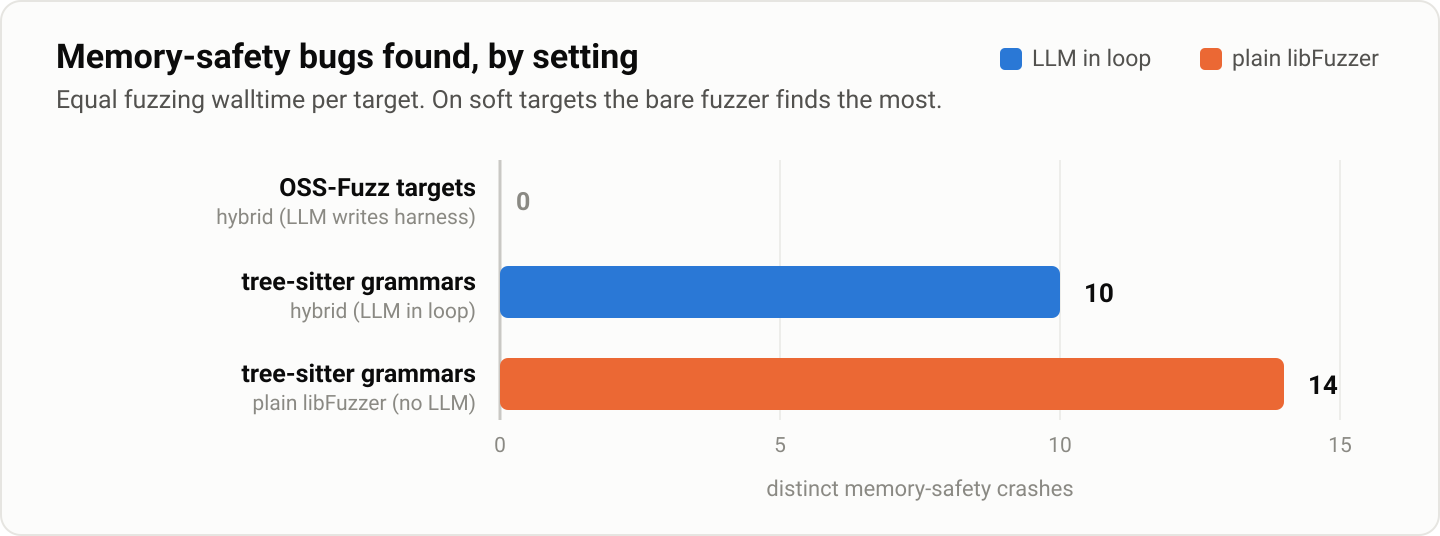
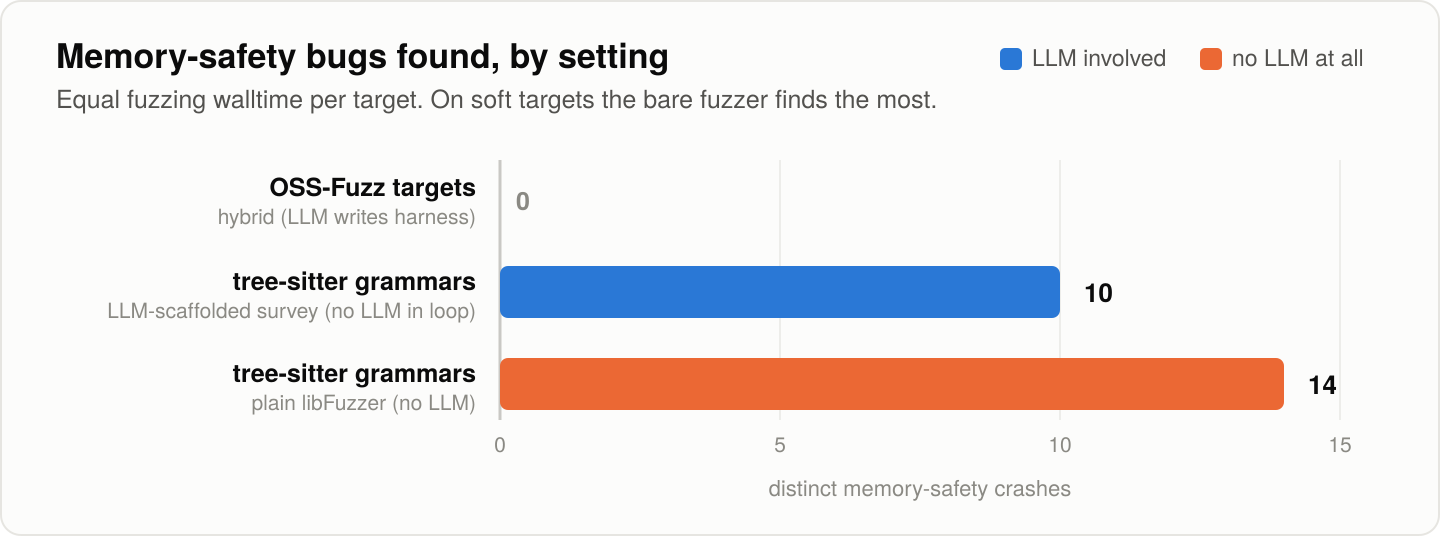
docs(blog): report the Round 3 ablation and revise the negative result
The post's own "confession" section admits the treatment/control comparison in
Round 2 was not an ablation: both arms were conventional fuzzers, because the
118-grammar survey had no LLM in its discovery loop. We have now run the
experiment it stood in for, and the headline claim needs revising.

## What the new run was

A real LLM-in-the-loop discovery arm (model writes the harness, fuzzes a 300s
window, reads coverage/crash feedback, rewrites, x5) against plain libFuzzer with
a fixed template harness on a matched window schedule and shared corpus. Five
grammars, three reps, 150 windows, 12.5 fuzzing-hours.

## What it found

6 memory-safety bugs for the LLM arm vs 5 for the control, 1 LLM-only. The
replicated effect is reliability rather than capability: on nushell-nu, gren and
foam the LLM arm found the bug in 3/3 reps and the control in 1/3 — bugs the bare
fuzzer demonstrably CAN find, but inconsistently at equal budget. The single
capability instance is sql's scan_dollar_string_tag leak: LLM 3/3, control 0/3
across ~68k executions, and reaching it needs valid $tag$...$tag$ input.

## Prose changes

- TL;DR: "nothing we ran supports the idea that an LLM in the fuzzing loop finds
  more bugs" was true when written and is now false. Rewritten as mostly-but-not-
  entirely negative, with the size of the effect stated up front so the revision
  cannot be read as a reversal.
- "at no point did an LLM contribute to finding a bug" -> scoped to "up to this
[…]

diff --git a/comms/blog/figures.py b/comms/blog/figures.py
@@ -1,0 +1,197 @@
+#!/usr/bin/env python3
+"""Regenerate blog figures from sweep output.
+
+Usage (from repo root, needs the sweep JSONL present):
+
+    uv run --project scaffold python comms/blog/figures.py
+
+Emits SVG into ``comms/blog/assets/`` and rasterizes to PNG at 2x via
+ImageMagick (which delegates to librsvg here). The committed PNGs are 2x the
+viewBox, i.e. ``-density 192``.
+
+Only fig4 is generated from data. fig1-fig3 describe the earlier 118-grammar
+survey and the ARVO patching sweep, whose raw outputs are not on this machine
+(``scaffold/results/*`` is gitignored); those SVGs remain hand-maintained.
+
+Style constants below are copied from the existing hand-authored figures so a
+generated figure sits beside them without looking foreign.
+"""
+
+from __future__ import annotations
+
+import json
+import subprocess
+import sys
+from pathlib import Path
+
+ROOT = Path(__file__).resolve().parents[2]
+ASSETS = Path(__file__).resolve().parent / "assets"
+LLM_DIR = ROOT / "scaffold" / "results" / "treesitter-llm"
+CTL_DIR = ROOT / "scaffold" / "results" / "treesitter-baseline"
+
+GRAMMARS = ["nushell-nu", "gren", "foam", "typst", "sql"]
+REPS = ["rep1", "rep2", "rep3"]
+
+# --- house style ----------------------------------------------------------- #
+FONT = (
+    "-apple-system, BlinkMacSystemFont, 'Segoe UI', Roboto, "
+    "Helvetica, Arial, sans-serif"
+)
+BG, BORDER = "#fcfcfb", "#e6e5e1"
+INK, MUTED, FAINT = "#0b0b0b", "#52514e", "#8a8983"
+GRID, AXIS = "#ededea", "#c9c8c4"
+BLUE, ORANGE = "#2a78d6", "#eb6834"
+
+
+def _reps_with_bug() -> dict[str, dict[str, int]]:
+    """{grammar: {arm: n_reps_where_a_memory_safety_bug_was_found}}."""
+    sys.path.insert(0, str(ROOT / "scaffold" / "src"))
+    from parser_security_eval.treesitter.baseline_compare import load_sweep
+
+    out: dict[str, dict[str, int]] = {}
+    for g in GRAMMARS:
+        out[g] = {}
+        for arm, base in (("llm", LLM_DIR), ("control", CTL_DIR)):
+            hits = 0
+            for rep in REPS:
+                gc = load_sweep(base / rep).get(g)
+                if gc and gc.mem_hashes():
+                    hits += 1
+            out[g][arm] = hits
+    return out
+
+
+def _llm_only_bugs() -> dict[str, int]:
+    """Distinct memory-safety hashes an arm found that the other never did."""
+    sys.path.insert(0, str(ROOT / "scaffold" / "src"))
+    from parser_security_eval.treesitter.baseline_compare import load_sweep
+
+    llm, ctl = load_sweep(LLM_DIR), load_sweep(CTL_DIR)
+    out = {}
+    for g in GRAMMARS:
+        a = llm[g].mem_hashes() if g in llm else set()
+        b = ctl[g].mem_hashes() if g in ctl else set()
+        if a - b:
+            out[g] = len(a - b)
+    return out
+
+
+def fig4() -> str:
+    reps = _reps_with_bug()
+    only = _llm_only_bugs()
+
+    x0, unit = 250, 120  # x = x0 + reps*unit ; 3 reps -> 360px
+    top, pitch, bar_h = 84, 40, 11
+    bottom = top + pitch * len(GRAMMARS) - (pitch - 2 * bar_h - 4)
+
+    p: list[str] = []
+    p.append(
+        f'<svg xmlns="http://www.w3.org/2000/svg" viewBox="0 0 720 356" '
+        f'font-family="{FONT}">'
+    )
+    p.append(
+        f'  <rect x="0.5" y="0.5" width="719" height="355" rx="10" '
+        f'fill="{BG}" stroke="{BORDER}"/>'
+    )
+    p.append(
+        f'  <text x="28" y="34" font-size="17" font-weight="700" fill="{INK}">'
+        f"The ablation, actually run</text>"
+    )
+    p.append(
+        f'  <text x="28" y="54" font-size="12.5" fill="{MUTED}">Reps (of 3) in '
+        f"which each arm found the grammar&#39;s memory-safety bug. Equal "
+        f"fuzz-seconds.</text>"
+    )
+
+    # legend
+    p.append(f'  <rect x="500" y="24" width="11" height="11" rx="2.5" fill="{BLUE}"/>')
+    p.append(f'  <text x="516" y="33" font-size="11.5" fill="{MUTED}">LLM in loop</text>')
+    p.append(f'  <rect x="600" y="24" width="11" height="11" rx="2.5" fill="{ORANGE}"/>')
+    p.append(
+        f'  <text x="616" y="33" font-size="11.5" fill="{MUTED}">plain libFuzzer</text>'
+    )
+
+    # gridlines + axis labels
+    p.append(f'  <g stroke="{GRID}" stroke-width="1">')
+    for v in range(4):
+        gx = x0 + v * unit
+        p.append(f'    <line x1="{gx}" y1="{top - 8}" x2="{gx}" y2="{bottom}"/>')
+    p.append("  </g>")
+    p.append(f'  <g font-size="10.5" fill="{FAINT}" text-anchor="middle">')
+    for v in range(4):
+        p.append(f'    <text x="{x0 + v * unit}" y="{bottom + 16}">{v}</text>')
+    p.append("  </g>")
+    p.append(
+        f'  <text x="{x0 + 1.5 * unit}" y="{bottom + 38}" font-size="11" '
+        f'fill="{FAINT}" text-anchor="middle">reps in which the bug was found</text>'
+    )
+    p.append(
+        f'  <line x1="{x0}" y1="{top - 8}" x2="{x0}" y2="{bottom}" '
+        f'stroke="{AXIS}" stroke-width="1.5"/>'
+    )
+
+    for i, g in enumerate(GRAMMARS):
+        gy = top + i * pitch
+        p.append(
+            f'  <text x="238" y="{gy + 17}" font-size="12.5" fill="{INK}" '
+            f'text-anchor="end" font-weight="600">{g}</text>'
+        )
+        for j, (arm, colour) in enumerate((("llm", BLUE), ("control", ORANGE))):
+            n = reps[g][arm]
+            by = gy + j * (bar_h + 4)
+            w = n * unit
+            if w:
+                p.append(
+                    f'  <rect x="{x0}" y="{by}" width="{w}" height="{bar_h}" '
+                    f'rx="3" fill="{colour}"/>'
+                )
+            p.append(
+                f'  <text x="{x0 + w + 8}" y="{by + 9.5}" font-size="11.5" '
+                f'font-weight="700" fill="{INK if w else FAINT}">{n}</text>'
+            )
+    # Bugs unique to one arm do not fit as row annotations at this width, and
+    # they are a different quantity from the bar (bugs, not reps), so they get
+    # their own footnote rather than sharing the axis.
+    note_y = bottom + 62
+    for g, n in sorted(only.items()):
+        p.append(
+            f'  <rect x="28" y="{note_y - 9}" width="9" height="9" rx="2" '
+            f'fill="{BLUE}"/>'
+        )
+        p.append(
+            f'  <text x="43" y="{note_y}" font-size="11" fill="{MUTED}">'
+            f"<tspan font-weight=\"600\" fill=\"{INK}\">{g}</tspan>: "
+            f"{n} further memory-safety bug found by the LLM arm in 3/3 reps "
+            f"and never by the control</text>"
+        )
+        note_y += 16
+
+    p.append("</svg>")
+    return "\n".join(p) + "\n"
+
+
+def main() -> None:
+    if not LLM_DIR.exists() or not CTL_DIR.exists():
+        sys.exit(f"sweep output missing: need {LLM_DIR} and {CTL_DIR}")
+    svg_path = ASSETS / "fig4-ablation.svg"
+    svg_path.write_text(fig4(), encoding="utf-8")
+    print(f"wrote {svg_path}")
+    rasterize(svg_path)
+
+
+def rasterize(svg_path: Path) -> None:
+    """SVG -> 2x PNG, matching the committed figures' resolution."""
+    png = svg_path.with_suffix(".png")
+    subprocess.run(
+        ["magick", "-density", "192", "-background", "none", str(svg_path), str(png)],
+        check=True,
+    )
+    print(f"wrote {png}")
+
+
+if __name__ == "__main__":
+    main()
+
+
+def _load_records(path: Path) -> list[dict]:  # pragma: no cover - helper
+    return [json.loads(x) for x in path.read_text().splitlines() if x.strip()]

diff --git a/comms/blog/main.md b/comms/blog/main.md
@@ -1,6 +1,6 @@
 # Unclear that neurosymbolic fuzzing (fuzzers and LLMs uplifting each other) works very well
 
-**TL;DR.** We fuzzed 118 real-world [tree-sitter](https://tree-sitter.github.io/tree-sitter/) grammars, found memory-safety bugs in 9 of them (10 distinct crashes, all in hand-written `scanner.c`) plus parse hangs and OOMs in a dozen more, disclosed to maintainers, and are landing fixes upstream — LLM-drafted, crash-replay-verified, [first one merged](https://github.com/fwcd/tree-sitter-kotlin/pull/279). That's the contribution. The finding is a negative result on the question we were funded to answer: nothing we ran supports the idea that an LLM in the fuzzing loop finds more bugs. On OSS-Fuzz-hardened parsers our LLM-in-the-loop agent found zero. On tree-sitter, the discovery side never needed an LLM at all — and a plain-[libFuzzer](https://llvm.org/docs/LibFuzzer.html) control found the same class of bugs, and more of them. The LLM earned its keep writing scaffolding and patching crashes, not finding them.
+**TL;DR.** We fuzzed 118 real-world [tree-sitter](https://tree-sitter.github.io/tree-sitter/) grammars, found memory-safety bugs in 9 of them (10 distinct crashes, all in hand-written `scanner.c`) plus parse hangs and OOMs in a dozen more, disclosed to maintainers, and are landing fixes upstream — LLM-drafted, crash-replay-verified, [first one merged](https://github.com/fwcd/tree-sitter-kotlin/pull/279). That's the contribution. On the question we were funded to answer, the result is mostly but no longer entirely negative. On OSS-Fuzz-hardened parsers our LLM-in-the-loop agent found zero bugs. On tree-sitter our 118-grammar survey never had an LLM in the discovery loop at all, and a plain-[libFuzzer](https://llvm.org/docs/LibFuzzer.html) control found the same class of bugs and more of them. We then went back and ran the ablation we had failed to run — a genuine LLM-in-the-loop arm against plain libFuzzer at equal fuzz-seconds, five grammars, three reps each. There the LLM arm did win, narrowly: it found each grammar's known bug in 3 reps of 3 where the bare fuzzer managed 1 of 3, and it found one leak the control never found in three attempts. That is a real effect on a small sample, and it is much weaker than "AI-accelerated fuzzers self-improving at runtime" implies.
 
 Recently, [MaxvH wrote](https://www.lesswrong.com/posts/KKE6bL8LEpb6KuZWA/funding-formal-methods-for-the-cyberpocalypse) that we ought to develop an FM tool of the future:
 
@@ -36,12 +36,34 @@ To measure the LLM's contribution to discovery, we ran a control: plain libFuzze
 
 The confession: we designed this as treatment versus control for LLM discovery uplift, and only during write-up did we work out — by asking each other what the code actually does — that the "treatment" arm had no LLM in its discovery loop either. So this comparison is not an ablation of anything. It's two conventional fuzzing configurations that differ in engine setup, and the crashes unique to each side (4 and 8) look like ordinary run-to-run fuzzing variance, which is exactly what two no-LLM runs should produce. We weren't scientific here, and we're saying so rather than dressing the tally up as a result.
 
-But note what the accident leaves intact: across both rounds, hard targets and soft, **at no point did an LLM contribute to finding a bug.** On hardened parsers the genuine LLM-in-the-loop agent found zero. On soft parsers every bug was found by a conventional fuzzer, and a second conventional fuzzer found the same class of bugs and more. The discovery value came from fuzzing at all, and from pointing the fuzzer at overlooked targets.
+But note what the accident leaves intact: up to this point, across both rounds, hard targets and soft, **no LLM had contributed to finding a bug.** On hardened parsers the genuine LLM-in-the-loop agent found zero. On soft parsers every bug was found by a conventional fuzzer, and a second conventional fuzzer found the same class of bugs and more. The discovery value came from fuzzing at all, and from pointing the fuzzer at overlooked targets.
 
 ![Horizontal bar chart of memory-safety bugs found by setting: OSS-Fuzz targets with the LLM-in-the-loop agent found 0; tree-sitter grammars with the LLM-scaffolded survey found 10; tree-sitter grammars with the plain libFuzzer control found 14.](assets/fig1-discovery-by-setting.png)
+
+## Round 3: running the ablation we owed
+
+Having admitted we hadn't run the experiment, we ran it. The treatment arm this time is a real LLM-in-the-loop discovery agent: it writes the libFuzzer harness, fuzzes a 300-second window, reads back coverage and crash feedback, rewrites the harness, and repeats for five windows. The control is plain libFuzzer with a fixed template harness, given the *same* number of windows of the *same* length against the same corpus — so the only difference is who writes the harness. Five grammars where the survey had already found bugs, three repetitions each: 150 windows and 12.5 hours of fuzzing, which took about 15 hours of wall-clock once the model's harness-writing is counted. That gap is itself a cost the equal-fuzz-seconds framing hides — the LLM arm needed roughly 30% more real time to consume the same fuzzing budget.
+
+Two things had to be fixed before the comparison meant anything, and they are worth naming because both would have produced a confident wrong answer. First, libFuzzer aborts the process on the first crashing input unless you run it in fork mode; our treatment arm didn't, so every "300-second" window was ending after two or three executions with coverage never sampled. The control arm *did* run in fork mode. Any number from that pairing would have measured a libFuzzer flag, not an LLM. Second, our crash-identity hash included line numbers, so one leaking function reached from two of its own call sites counted as two bugs.
+
+With those fixed: **6 memory-safety bugs for the LLM arm, 5 for the control, one found only by the LLM arm.** The headline overlap is 5 of 6, and on a five-grammar sample that difference alone would be unremarkable.
+
+![Grouped bar chart: for each of five grammars, the number of repetitions (out of three) in which each arm found the grammar's memory-safety bug. The LLM arm scores 3 of 3 on all five; plain libFuzzer scores 1 of 3 on nushell-nu, gren and foam, and 3 of 3 on typst and sql. A footnote records one further bug in sql found only by the LLM arm.](assets/fig4-ablation.png)
+
+The replicated effect is **reliability, not capability**. On nushell-nu, gren and foam the LLM arm found the bug in all three reps; the bare fuzzer found it in one of three. These are bugs plain libFuzzer clearly *can* find — it found each of them at least once — but at equal budget it finds them inconsistently. Anyone comparing a single run against a single run here would get a coin flip, which is roughly what our 118-grammar tally in the previous section was measuring.
+
+The one result that looks like genuine capability is a leak in [tree-sitter-sql](https://github.com/DerekStride/tree-sitter-sql): `scan_dollar_string_tag` calls `add_char` and never frees the tag buffer. The LLM arm found it in 3 reps of 3. The control found it in 0 of 3, across roughly 68,000 executions. Reaching it needs a structurally valid `$tag$...$tag$` dollar-quoted string, which is the kind of thing a model that knows SQL writes into its seeds and random mutation of a generic corpus does not stumble into. That is the mechanism the funded hypothesis predicts, and it is the only instance of it we have.
+
+Coverage does not tell a clean story. The LLM arm reached more edges on four of five grammars, but the fixed template beat it on nushell-nu in both usable reps (5,111 vs 4,247 mean edges) — and nushell-nu is one of the grammars where the template found the bug least often. Coverage and bug-finding come apart, which is worth remembering before optimising for either.
+
+We are not going to oversell five grammars. The targets were chosen *because* the earlier survey had already found bugs in them, so this measures re-discovery of known bugs, not discovery of new ones; the sql leak may well be one of the two sql bugs the survey already had. One model, one target class, three reps. What we will say is that this is the first time in the project an LLM in the loop measurably beat the fuzzer without it, and that the margin is a reliability multiplier plus one bug — not a step change.
 
 [^overlap]: "Same bug" is judged by a normalized stack hash — top frames reduced to function + scanner-file:line, with absolute paths, binary load offsets, and tree-sitter runtime line numbers stripped. Our first attempt hashed raw frames and reported a spurious 0/10 overlap: the two sweeps ran under different home directories against different runtime commits, so every hash differed even for provably identical crashes (byte-identical [ASan](https://clang.llvm.org/docs/AddressSanitizer.html) summaries). The 6/10 figure is after that fix.
 
 ## Takeaway
 
-"AI-accelerated fuzzers that self-improve their harnesses at runtime" is a natural idea, and we'd guess versions of it get funded more than once. Our experience: on hardened targets the LLM-in-the-loop agent added nothing, because the fuzzer alone had already sufficed years ago; on soft targets we found real bugs without ever needing an LLM in the loop. The niche where LLM *discovery* uplift has to live — targets too hard for vanilla fuzzing but tractable with LLM-guided harnesses — is one we looked for on hard targets and never reached, and never needed on soft ones. We can't rule out that a better agent elicits it; on our evidence, the money is better spent buying CPU for the fuzzer and pointing it at the parsers nobody bothered to fuzz. Where the LLM does earn its keep is everything around the fuzzer: writing the scaffolding, triaging the crashes, and drafting the fixes we're now landing upstream — a different and more defensible claim than the one we set out to test.
+"AI-accelerated fuzzers that self-improve their harnesses at runtime" is a natural idea, and we'd guess versions of it get funded more than once. Our experience: on hardened targets the LLM-in-the-loop agent added nothing, because the fuzzer alone had already sufficed years ago; on soft targets we found real bugs without ever needing an LLM in the loop, and then, when we finally ran the controlled version, the LLM arm won by a modest margin.
+
+The niche where LLM *discovery* uplift has to live — targets too hard for vanilla fuzzing but tractable with LLM-guided harnesses — turns out to exist, and to be narrow. We saw exactly one bug in it. Mostly what the LLM bought was consistency: finding in three runs of three what the bare fuzzer found in one of three. That is worth something if you fuzz a target once and move on, and worth much less if you were going to run the fuzzer three times anyway, which is cheaper than three agent runs. On our evidence the money still mostly goes to CPU for the fuzzer and to pointing it at parsers nobody bothered to fuzz — but "mostly" is doing more work in that sentence than it was before we ran the ablation.
+
+The clearest lesson is methodological, and it is the one we'd press on anyone else funding this. We spent a round comparing two configurations that we believed differed by an LLM and did not. When we built the real comparison, two implementation details — a missing libFuzzer flag on one arm, and line numbers in a crash hash — were each independently sufficient to produce a confident wrong answer in *either* direction. The effect being measured here is small enough that the measurement apparatus has to be more trustworthy than the effect, and ours initially wasn't. Where the LLM most clearly earns its keep remains everything around the fuzzer: writing the scaffolding, triaging the crashes, and drafting the fixes we're now landing upstream.
